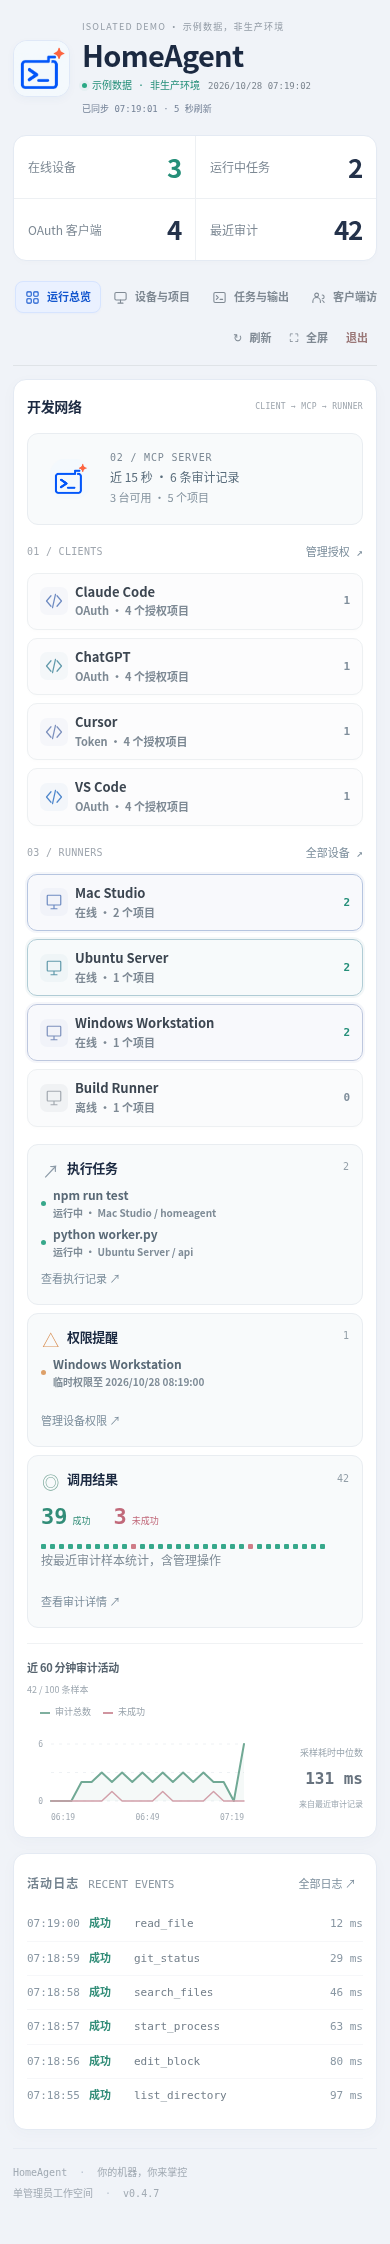
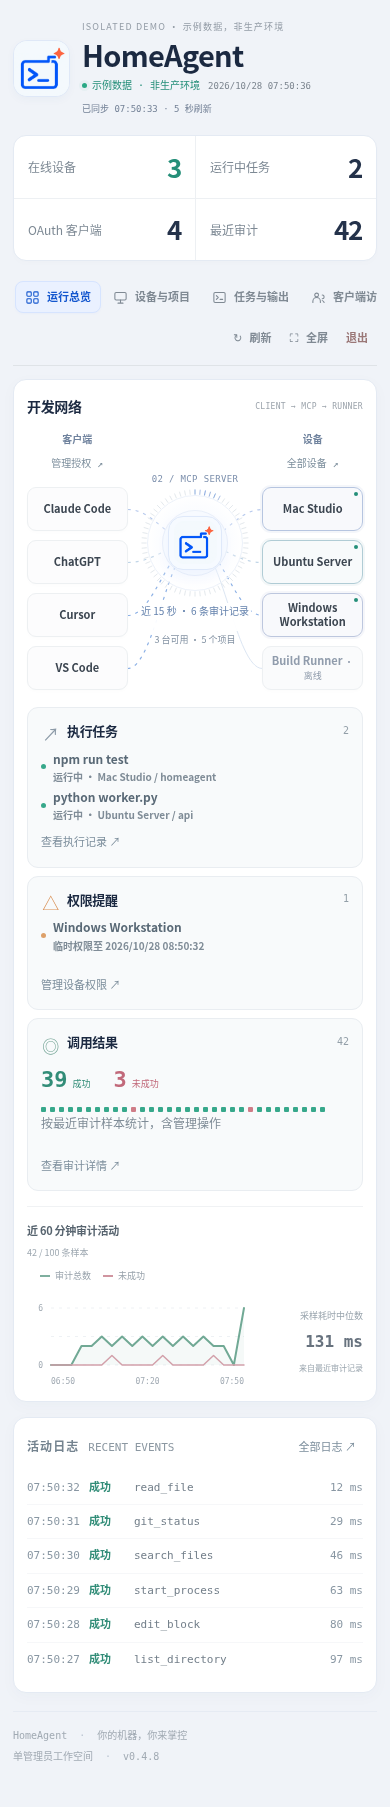
release: v0.4.8 restore compact mobile topology and align labels

diff --git a/public/console.css b/public/console.css
@@ -32,6 +32,7 @@ body.console-page::before { display: none; }
 .ha-console .console-brand { display: flex; align-items: center; gap: 15px; min-width: 0; }
 .ha-console .console-brand-mark { display: block; width: 65px; height: 65px; flex: 0 0 65px; object-fit: contain; background: #f6faff; border: 1px solid #dfe8f7; border-radius: 17px; box-shadow: 0 3px 9px #264e8b09; }
 .ha-console .console-brand-mark svg { width: 39px; height: 39px; }
+.ha-console .console-label-mobile { display: none; }
 .ha-console .console-brand-copy { min-width: 0; }
 .ha-console .console-brand > div { min-width: 0; }
 .ha-console .console-brand .eyebrow { margin-bottom: 4px; }
@@ -322,25 +323,45 @@ body.console-page::before { display: none; }
   .ha-console .console-panel-head h2 { font-size: 14px; }
   .ha-console .console-panel-head > span, .ha-console .console-panel-meta { font-size: 8px; }
   .ha-console .console-network-panel > .console-panel-head .console-heading-note { display: none; }
-  .ha-console .console-network-grid { display: flex; flex-direction: column; align-items: stretch; gap: 18px; min-height: auto; padding-top: 15px; }
-  .ha-console .console-hub-scene { order: -1; display: grid; grid-template-columns: 56px minmax(0, 1fr); grid-template-rows: auto auto auto; align-content: center; justify-items: start; gap: 3px 12px; width: 100%; min-height: 92px; padding: 14px; background: #f8fafb; border: 1px solid #e9edf1; border-radius: 11px; }
-  .ha-console .console-core-wrap { grid-column: 1; grid-row: 1 / 4; width: 56px; height: 56px; margin: 0; transform: none; }
-  .ha-console .console-orbit { display: none; }
-  .ha-console .console-hub-caption { grid-column: 2; grid-row: 1; margin: 0; color: #7c8995; font-size: 10px; line-height: 1.3; letter-spacing: .08em; }
-  .ha-console .console-core-wrap::before, .ha-console .console-core-wrap::after { display: none; }
-  .ha-console .console-hub { width: 56px; height: 56px; padding: 0; color: inherit; background: transparent; border: 0; border-radius: 12px; box-shadow: none; transform: none; }
+  .ha-console .console-label-mobile { display: inline; }
+  .ha-console .console-label-desktop { display: none; }
+  /* Keep the live network's spatial relationships on a portrait screen. */
+  .ha-console .console-network-grid { display: grid; grid-template-columns: minmax(0, 1fr) minmax(96px, 1.2fr) minmax(0, 1fr); align-items: center; gap: 7px; min-height: 266px; padding: 14px 0 12px; }
+  .ha-console .console-hub-scene { order: 0; display: grid; grid-template-columns: 1fr; grid-template-rows: auto; align-content: center; justify-items: center; gap: 0; width: 100%; min-height: 220px; padding: 0; background: transparent; border: 0; border-radius: 0; }
+  .ha-console .console-core-wrap { grid-column: auto; grid-row: auto; width: min(108px, 100%); height: auto; aspect-ratio: 1; margin: 3px 0 6px; transform: none; }
+  .ha-console .console-orbit { display: block; inset: -4px; width: calc(100% + 8px); height: calc(100% + 8px); pointer-events: none; }
+  .ha-console .console-hub-caption { grid-column: auto; grid-row: auto; margin: 0; color: #7d90ad; font-size: 9px; line-height: 1.3; letter-spacing: .04em; }
+  .ha-console .console-core-wrap::before { display: block; inset: 6px; }
+  .ha-console .console-core-wrap::after { display: block; inset: 21px; }
+  .ha-console .console-hub { width: 54px; height: 54px; padding: 0; background: #f6faff; border: 1px solid #dfe9fa; border-radius: 15px; box-shadow: 0 5px 14px #0755ff0b; transform: none; }
   .ha-console .console-hub > span { display: none; }
-  .ha-console .console-core-mark { width: 40px; height: 40px; object-fit: contain; transform: none; }
-  .ha-console #consoleActivity { grid-column: 2; grid-row: 2; margin: 0; color: #596c7b; text-align: left; font-size: 12px; line-height: 1.4; }
-  .ha-console .console-core-detail { grid-column: 2; grid-row: 3; margin: 0; color: #84939f; text-align: left; font-size: 11px; line-height: 1.4; }
-  .ha-console .console-connectors { display: none; }
+  .ha-console .console-core-mark { width: 43px; height: 43px; border-radius: 11px; object-fit: contain; transform: none; }
+  .ha-console #consoleActivity { grid-column: auto; grid-row: auto; min-height: 28px; margin: 0; color: #6482ad; text-align: center; font-size: 10px; line-height: 1.4; }
+  .ha-console .console-core-detail { grid-column: auto; grid-row: auto; margin: 2px 0 0; color: #8493a4; text-align: center; font-size: 9px; line-height: 1.4; }
+  .ha-console .console-connectors { display: block; }
+  .ha-console .console-connection { stroke: #dce6f3; }
+  .ha-console .console-connection.is-active { stroke: #8aafe5; stroke-width: 1.15; stroke-dasharray: 3 5; }
   .ha-console .console-node-column { width: 100%; min-width: 0; }
-  .ha-console .console-node-list { gap: 8px; }
-  .ha-console .console-column-heading { margin-bottom: 10px; font-size: 10px; }
-  .ha-console .console-node { min-height: 54px; padding: 10px 12px; }
-  .ha-console .console-node-icon { width: 28px; height: 28px; flex-basis: 28px; font-size: 14px; }
-  .ha-console .console-node-name { font-size: 13px; }
-  .ha-console .console-node-meta { font-size: 11px; }
+  .ha-console .console-node-list { gap: 9px; }
+  .ha-console .console-column-heading { display: grid; grid-template-columns: minmax(0, 1fr); justify-content: stretch; justify-items: center; gap: 2px; width: 100%; min-width: 0; margin-bottom: 9px; text-align: center; font-size: 10px; letter-spacing: 0; }
+  .ha-console .console-column-heading > span { width: 100%; }
+  .ha-console .console-column-heading .console-text-button { min-height: 28px; max-width: 100%; padding: 3px 4px; font-size: 10px; line-height: 1.4; }
+  .ha-console .console-column-heading .console-label-mobile { color: #70839e; font-weight: 600; }
+  .ha-console #consoleActivity, .ha-console .console-core-detail { position: relative; z-index: 1; padding: 1px 2px; background: #fffffff0; border-radius: 4px; }
+  .ha-console .console-hub-caption, .ha-console #consoleActivity, .ha-console .console-core-detail { min-width: 0; max-width: 100%; overflow-wrap: anywhere; }
+  .ha-console .console-node { justify-content: center; gap: 0; min-height: 44px; padding: 6px 5px; border-radius: 9px; }
+  .ha-console .console-node-icon, .ha-console .console-node-meta, .ha-console .console-node-count { display: none; }
+  .ha-console .console-node-copy { gap: 0; text-align: center; }
+  .ha-console .console-node-name { display: -webkit-box; overflow-wrap: anywhere; -webkit-box-orient: vertical; -webkit-line-clamp: 2; white-space: normal; font-size: 11px; line-height: 1.25; }
+  .ha-console .console-node.is-active::after { position: absolute; top: 4px; right: 4px; width: 4px; height: 4px; border-radius: 50%; background: var(--console-teal); content: ''; }
+  .ha-console .console-node.is-offline .console-node-name { color: #909cac; }
+  .ha-console .console-node.is-offline .console-node-name::after { content: ' · 离线'; font-size: 9px; font-weight: 450; }
+  .ha-console .console-node.is-paused .console-node-name { color: #9b805c; }
+  .ha-console .console-node.is-paused .console-node-name::after { content: ' · 暂停'; font-size: 9px; font-weight: 450; }
+  .ha-console .console-node-column .console-empty { min-height: 90px; padding: 7px 4px; font-size: 10px; }
+  .ha-console .console-node-column .console-empty p { font-size: 10px; }
+  .ha-console .console-node-column .console-empty-symbol { display: none; }
+  .ha-console .console-node-column .console-text-button, .ha-console .console-overflow { white-space: normal; }
   .ha-console .console-status-grid { grid-template-columns: 1fr; gap: 8px; margin-top: 5px; }
   .ha-console .console-status-card { min-height: 94px; padding: 13px; }
   .ha-console .console-status-card h3 { font-size: 13px; }

diff --git a/src/server/dashboard.ts b/src/server/dashboard.ts
@@ -68,7 +68,7 @@ export const dashboard = `
           <path class="console-connection" d="M500 160C635 160 645 193 755 193" vector-effect="non-scaling-stroke"/>
           <path class="console-connection" d="M500 160C635 160 645 268 755 268" vector-effect="non-scaling-stroke"/>
         </svg>
-        <div class="console-node-column"><div class="console-column-heading"><span>01 / CLIENTS</span><button type="button" class="console-text-button" data-console-view="access" aria-controls="console-view-access">管理授权 ↗</button></div><div id="consoleClients" class="console-node-list"><p class="console-empty">等待客户端数据…</p></div></div>
+        <div class="console-node-column"><div class="console-column-heading"><span><span class="console-label-desktop">01 / CLIENTS</span><span class="console-label-mobile">客户端</span></span><button type="button" class="console-text-button" data-console-view="access" aria-controls="console-view-access">管理授权 ↗</button></div><div id="consoleClients" class="console-node-list"><p class="console-empty">等待客户端数据…</p></div></div>
         <div class="console-hub-scene">
           <span class="console-hub-caption">02 / MCP SERVER</span>
           <div class="console-core-wrap"><svg id="consoleRing" class="console-orbit" viewBox="0 0 240 240" fill="none" aria-hidden="true"></svg>
@@ -76,7 +76,7 @@ export const dashboard = `
           </div>
           <p id="consoleActivity" class="console-core-status">等待首次同步</p><span id="consoleOnlineSummary" class="console-core-detail">连接设备后显示运行状态</span>
         </div>
-        <div class="console-node-column"><div class="console-column-heading"><span>03 / RUNNERS</span><button type="button" class="console-text-button" data-console-view="devices" aria-controls="console-view-devices">全部设备 ↗</button></div><div id="consoleRunners" class="console-node-list"><p class="console-empty">等待设备数据…</p></div></div>
+        <div class="console-node-column"><div class="console-column-heading"><span><span class="console-label-desktop">03 / RUNNERS</span><span class="console-label-mobile">设备</span></span><button type="button" class="console-text-button" data-console-view="devices" aria-controls="console-view-devices">全部设备 ↗</button></div><div id="consoleRunners" class="console-node-list"><p class="console-empty">等待设备数据…</p></div></div>
       </div>
       <div class="console-status-grid">
         <article class="console-status-card"><div class="console-card-heading"><h3><span class="console-card-symbol" aria-hidden="true">↗</span>执行任务</h3><span id="consoleJobCount" class="console-count">—</span></div><div id="consoleJobs" class="console-status-list"><p class="console-empty">等待任务数据…</p></div><button type="button" class="console-text-button" data-console-view="jobs" aria-controls="console-view-jobs">查看执行记录 ↗</button></article>

diff --git a/src/shared/protocol.ts b/src/shared/protocol.ts
@@ -1,7 +1,7 @@
 import { z } from 'zod';
 import { remotePermissionsSchema } from './permissions.js';
 
-export const VERSION = '0.4.7';
+export const VERSION = '0.4.8';
 export const RUNNER_PROTOCOL = 2;
 export const MAX_FRAME = 2 * 1024 * 1024;
 export const SCOPES = ['read', 'write', 'execute', 'git'] as const;

diff --git a/README.md b/README.md
@@ -33,7 +33,7 @@
 
 HomeAgent 让 Claude、ChatGPT、Cursor 等 MCP 客户端，通过你部署的 Server 操作自己的 Linux / Windows 开发机器。Runner 主动连出，在本地执行授权的文件、命令和 Git 操作，无需开放被控端入站端口。
 
-系统运行无需模型 API Key、第三方中继、遥测或付费云服务；工具结果会返回给你选择的 AI 客户端。当前版本 **v0.4.7**，支持单管理员、多设备。
+系统运行无需模型 API Key、第三方中继、遥测或付费云服务；工具结果会返回给你选择的 AI 客户端。当前版本 **v0.4.8**，支持单管理员、多设备。
 
 ## 为什么使用 HomeAgent
 
@@ -54,9 +54,9 @@ HomeAgent 让 Claude、ChatGPT、Cursor 等 MCP 客户端，通过你部署的 S
 <details>
 <summary><strong>查看手机布局</strong></summary>
 
-手机端将统计卡片排列为两列，紧凑的 MCP 概览、全宽客户端与 Runner 列表按纵向阅读顺序展开；通过顶部分段导航切换管理视图。
+手机端保留「客户端 → MCP Server → Runner」同屏动态拓扑，通过紧凑节点、环形刻度和调用连线呈现开发网络；点击节点打开完整设置，其他功能通过顶部分段导航访问。
 
-<img src="docs/screenshots/dashboard-mobile.png" width="360" alt="HomeAgent 手机控制台：两列统计卡片、紧凑 MCP 概览及纵向客户端与 Runner 列表">
+<img src="docs/screenshots/dashboard-mobile.png" width="360" alt="HomeAgent 手机控制台：客户端、中央 MCP 与 Runner 同屏连接的动态拓扑">
 
 </details>
 
@@ -111,7 +111,7 @@ Server 和 Runner 已拆成两个 npm 包，分别安装在中继服务器和需
 准备 Docker Engine、Compose v2 和 Git，将自己的域名解析到服务器，并放行 TCP 80/443。下面以 `mcp.example.com` 为例，执行前替换成自己的域名。
 
 ```sh
-git clone --branch v0.4.7 --depth 1 https://github.com/jhxxr/HomeAgent.git
+git clone --branch v0.4.8 --depth 1 https://github.com/jhxxr/HomeAgent.git
 cd HomeAgent
 
 # 用容器生成随机密码和会话密钥，无需在宿主机安装 Node.js
@@ -280,4 +280,4 @@ npm audit --omit=dev --audit-level=high
 
 发布前执行 [开源与发布检查](docs/OPEN_SOURCE.md)。npm 发布会生成两个包：`homeagent-server` 只包含 Server/Web Dashboard，`homeagent-runner` 只包含 Runner、共享协议和 Windows 辅助程序；两者都采用明确的发布文件白名单。
 
-`v0.4.7` 的发布配置会分别生成 `homeagent-server` 和 `homeagent-runner`；本地发布命令不会自动上传 npm 或推送 GitHub。后续发布递增版本，更新版本文件和 changelog 后推送匹配标签；预发布使用 npm `next`，正式版本使用 `latest`。Token 权限、OIDC 切换和重试行为见 [自动发布说明](docs/OPEN_SOURCE.md#github-actions-自动发布)。
+`v0.4.8` 的发布配置会分别生成 `homeagent-server` 和 `homeagent-runner`；本地发布命令不会自动上传 npm 或推送 GitHub。后续发布递增版本，更新版本文件和 changelog 后推送匹配标签；预发布使用 npm `next`，正式版本使用 `latest`。Token 权限、OIDC 切换和重试行为见 [自动发布说明](docs/OPEN_SOURCE.md#github-actions-自动发布)。

diff --git a/docs/OPEN_SOURCE.md b/docs/OPEN_SOURCE.md
@@ -1,6 +1,6 @@
 # 开源仓库与源码发布
 
-本仓库以 MIT 开放原始代码，版本为 0.4.7，npm 发布拆成 `homeagent-server` 和 `homeagent-runner` 两个包。Server 包只包含编译后的 Server、Dashboard 和 Server 资源；Runner 包只包含 Runner、共享协议和 Windows 进程树辅助代码。CLI 和源码采用相同许可证；两个 npm 包都通过文件白名单只包含运行所需文件、文档和许可证。包名是否可用及账号发布权限以发布当时的 registry 为准。
+本仓库以 MIT 开放原始代码，版本为 0.4.8，npm 发布拆成 `homeagent-server` 和 `homeagent-runner` 两个包。Server 包只包含编译后的 Server、Dashboard 和 Server 资源；Runner 包只包含 Runner、共享协议和 Windows 进程树辅助代码。CLI 和源码采用相同许可证；两个 npm 包都通过文件白名单只包含运行所需文件、文档和许可证。包名是否可用及账号发布权限以发布当时的 registry 为准。
 
 ## 文件划分
 
@@ -53,7 +53,7 @@ npm run release:source
 
 输出位于被忽略的 release/：
 
-- `HomeAgent-v0.4.7-source.tar.gz`
+- `HomeAgent-v0.4.8-source.tar.gz`
 - 对应 `.sha256` 校验文件
 - 对应 `.manifest.txt`，包括版本、Git 提交和全部发布路径
 
@@ -65,8 +65,8 @@ npm run release:source
 
 `npm run release:npm` 构建 JavaScript、以 `--ignore-scripts` 分别打包两个包，并检查归档文件白名单、运行资源及 SHA-512 完整性，输出：
 
-- `release/homeagent-server-0.4.7.tgz`
-- `release/homeagent-runner-0.4.7.tgz`
+- `release/homeagent-server-0.4.8.tgz`
+- `release/homeagent-runner-0.4.8.tgz`
 - 两个归档各自的 `.sha256`
 - `release/npm-packages.json`：两个包的名称、版本、Git commit、校验、dist-tag 和路径清单
 
@@ -76,20 +76,20 @@ npm run release:source
 
 `.github/workflows/release.yml` 支持两种入口：
 
-1. 推送版本标签，例如 `v0.4.7`。
+1. 推送版本标签，例如 `v0.4.8`。
 2. 在 Actions → release → Run workflow 中填写**已经存在**的版本标签。
 
 先按下一节配置 `NPM_TOKEN`。首次推送源码、配置真实 `origin` 并确认 Actions 可用后，可以按下面方式发布：
 
 ```sh
 # 先提交本次版本的源码和文档，工作区保持干净
-git tag -a v0.4.7 -m "HomeAgent v0.4.7"
-git push origin v0.4.7
+git tag -a v0.4.8 -m "HomeAgent v0.4.8"
+git push origin v0.4.8
 ```
 
 本文只是发布说明，准备脚本不会替操作者执行这些命令。
 
-标签必须与 package.json、package-lock.json 及 runtime VERSION 一致，CHANGELOG.md 必须有对应版本的非空条目。预发布可用 `v0.4.7-rc.1`（相关版本文件也必须为 `0.4.7-rc.1`）。禁止把普通分支或不匹配版本伪装成发布。
+标签必须与 package.json、package-lock.json 及 runtime VERSION 一致，CHANGELOG.md 必须有对应版本的非空条目。预发布可用 `v0.4.8-rc.1`（相关版本文件也必须为 `0.4.8-rc.1`）。禁止把普通分支或不匹配版本伪装成发布。
 
 发布流水线按次序执行：
 

diff --git a/README.en.md b/README.en.md
@@ -33,7 +33,7 @@
 
 HomeAgent lets Claude, ChatGPT, Cursor and other MCP clients work on your own Linux / Windows development machines through a relay you host. Runners connect outbound and execute authorized file, command and Git operations locally, without opening inbound ports.
 
-The execution system requires no model API key, hosted relay, telemetry or paid cloud service. Tool results are sent to the AI client you choose. Version **v0.4.7** supports one administrator and multiple devices.
+The execution system requires no model API key, hosted relay, telemetry or paid cloud service. Tool results are sent to the AI client you choose. Version **v0.4.8** supports one administrator and multiple devices.
 
 ## Why HomeAgent
 
@@ -54,9 +54,9 @@ Screenshots are rendered by a real browser using demo devices and projects in an
 <details>
 <summary><strong>View the mobile layout</strong></summary>
 
-On phones, statistics use two columns, followed by a compact MCP overview and full-width client and Runner lists in a vertical flow. The segmented navigation at the top switches between management views.
+On phones, a compact live topology keeps clients, the central MCP Server and Runners on the same screen, including the activity ring and call paths. Tap a node for its full settings; the segmented navigation opens the remaining management views.
 
-<img src="docs/screenshots/dashboard-mobile.png" width="360" alt="HomeAgent mobile Dashboard: two-column statistics, compact MCP overview and vertical client and Runner lists">
+<img src="docs/screenshots/dashboard-mobile.png" width="360" alt="HomeAgent mobile Dashboard: compact live client-to-MCP-to-Runner topology">
 
 </details>
 
@@ -117,7 +117,7 @@ Install Docker Engine, Compose v2 and Git. Point your domain at the server and
 allow inbound TCP ports 80/443. Replace `mcp.example.com` below with your domain.
 
 ```sh
-git clone --branch v0.4.7 --depth 1 https://github.com/jhxxr/HomeAgent.git
+git clone --branch v0.4.8 --depth 1 https://github.com/jhxxr/HomeAgent.git
 cd HomeAgent
 
 # Generate random secrets without installing Node.js on the host.
@@ -329,7 +329,7 @@ helpers. Each package has an explicit file list and license notices.
 See [release preparation](docs/OPEN_SOURCE.md) to generate a reviewed source
 archive. Nothing in the release commands automatically publishes or pushes it.
 
-The `v0.4.7` release configuration produces separate `homeagent-server` and
+The `v0.4.8` release configuration produces separate `homeagent-server` and
 `homeagent-runner` packages; local release commands do not upload to npm or push a
 GitHub Release. For subsequent releases, increment the version and update the
 version files and changelog before pushing a matching `vX.Y.Z` tag. Configure

diff --git a/docs/CLIENTS.md b/docs/CLIENTS.md
@@ -14,7 +14,7 @@ v0.3 日常编码优先采用 [开发工作流](DEVELOPMENT_WORKFLOW.md)：get_p
 
 v0.3.0 的授权表单直接重定向到外部回调，Chrome 可能按 `form-action 'self'` 拦截该跳转；授权请求却已被消费，第二次点击便显示 `Authorization request expired`。**升级 Server 到 v0.3.1**：新版本先进入站内完成页，再返回已注册客户端，保留严格 CSP；按钮显示提交状态并防止重复提交。
 
-升级后重启 Server，回到 AI 客户端重新发起 OAuth 授权，不要刷新或重复提交旧标签页。npm 部署升级 `homeagent-server` 包后重启对应服务；Runner 使用独立的 `homeagent-runner` 包，两者应升级到相同版本。Compose 部署检出 v0.4.7 后重新构建并启动，保留原 `.env` 和数据卷。Runner v0.3.0 不需要为 OAuth 回调修复升级；要使用 v0.4 的 Web 权限管理，则 Server 和 Runner 都应升级到 v0.4.7。
+升级后重启 Server，回到 AI 客户端重新发起 OAuth 授权，不要刷新或重复提交旧标签页。npm 部署升级 `homeagent-server` 包后重启对应服务；Runner 使用独立的 `homeagent-runner` 包，两者应升级到相同版本。Compose 部署检出 v0.4.8 后重新构建并启动，保留原 `.env` 和数据卷。Runner v0.3.0 不需要为 OAuth 回调修复升级；要使用 v0.4 的 Web 权限管理，则 Server 和 Runner 都应升级到 v0.4.8。
 
 若完成页没有自动返回，点击“继续返回客户端”。已使用或过期的授权码不会被重新签发；客户端仍未连接时，从客户端新建一次授权请求。设备凭据及已完成的客户端授权不因升级被主动清空。
 

diff --git a/CHANGELOG.md b/CHANGELOG.md
@@ -1,5 +1,16 @@
 # Changelog
 
+## 0.4.8 — Compact live topology on mobile
+
+- Restore the client → MCP Server → Runner layout on portrait screens, keeping
+  the central activity ring, animated call paths and node highlighting visible.
+- Simplify mobile node labels while retaining touch-sized targets and direct
+  access to complete device and client permission settings.
+- Center column titles and management actions, contain status text and scale
+  the activity ring to avoid text overlap on narrow screens.
+- Refresh the mobile README screenshot and verify layout boundaries at 320,
+  390 and 430 pixels alongside the existing management workflows.
+
 ## 0.4.7 — Interactive control plane and mobile overview
 
 - Add an interactive client → MCP Server → Runner topology with live audit

diff --git a/docs/DEPLOYMENT.md b/docs/DEPLOYMENT.md
@@ -95,7 +95,7 @@ journalctl --user -u homeagent-server -f
 先在有 Docker Engine、Compose v2 和 Git 的服务器检出发布源码：
 
 ```sh
-git clone --branch v0.4.7 --depth 1 https://github.com/jhxxr/HomeAgent.git
+git clone --branch v0.4.8 --depth 1 https://github.com/jhxxr/HomeAgent.git
 cd HomeAgent
 ```
 
